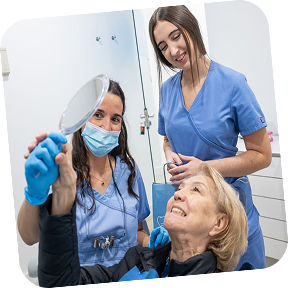
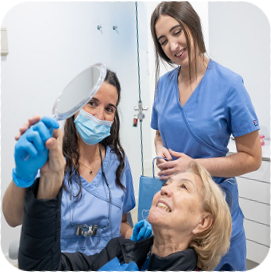
cambios en diseño y workers

diff --git a/src/styles/global.css b/src/styles/global.css
@@ -156,6 +156,7 @@
   /* --- Movimiento (§9) ------------------------------------------------------ */
   --duration-base: 200ms;
   --duration-slow: 400ms; /* despliegues amplios: acordeón FAQ, etc. */
+  --duration-reveal: 650ms; /* aparición progresiva de secciones al hacer scroll */
   --ease-out-soft: cubic-bezier(0.22, 1, 0.36, 1);
 }
 
@@ -341,12 +342,34 @@
   }
 }
 
+/* ===========================================================================
+   Carga progresiva — reveal de secciones al entrar en viewport (§9)
+   El estado oculto solo se aplica cuando JS está listo (`.js-ready`, añadido
+   por un script inline en el <head> antes del primer pintado → sin FOUC) y el
+   usuario no pidió menos movimiento. El observer marca `.is-visible` al entrar.
+   La 1.ª sección (hero) se excluye: aparece instantánea para no retrasar el LCP.
+   =========================================================================== */
+@media (prefers-reduced-motion: no-preference) {
+  .js-ready #main-content > *:not(:first-child) {
+    opacity: 0;
+    transform: translateY(1.5rem);
+    transition: opacity var(--duration-reveal) var(--ease-out-soft),
+      transform var(--duration-reveal) var(--ease-out-soft);
+  }
+
+  .js-ready #main-content > .is-visible {
+    opacity: 1;
+    transform: none;
+  }
+}
+
 @media (prefers-reduced-motion: reduce) {
   /* Todas las transiciones/animaciones del proyecto usan estos tokens;
      neutralizarlos aquí desactiva el movimiento sin recurrir a !important (§5). */
   :root {
     --duration-base: 0.01ms;
     --duration-slow: 0.01ms;
+    --duration-reveal: 0.01ms;
     --ease-out-soft: linear;
   }
 
